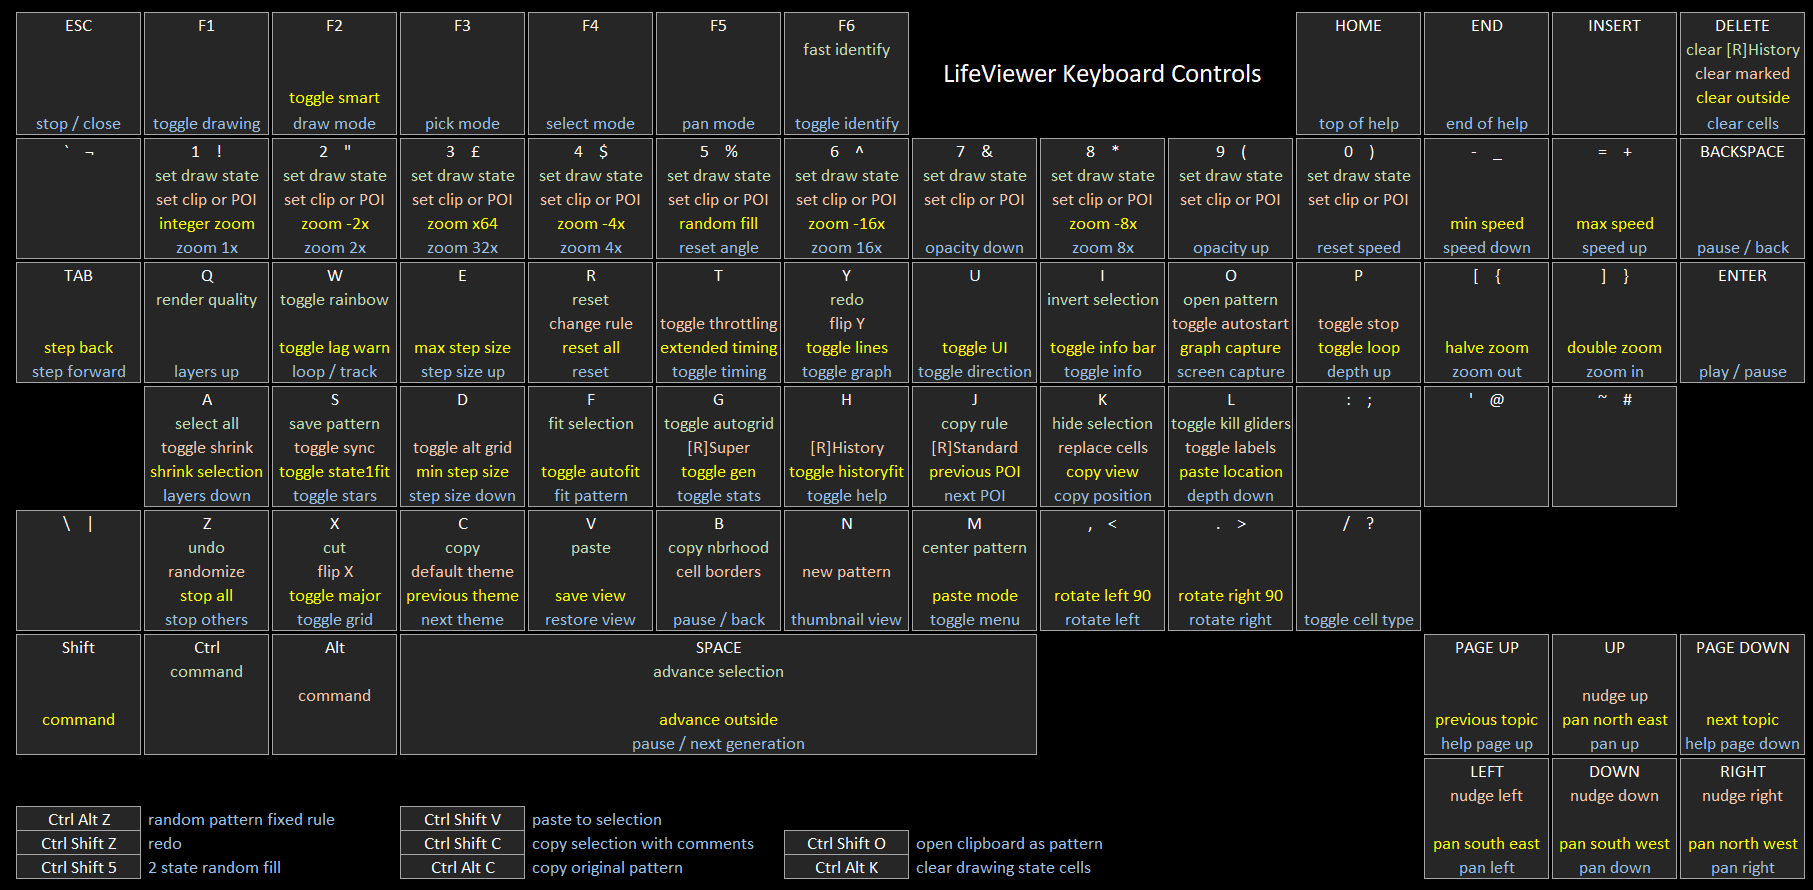
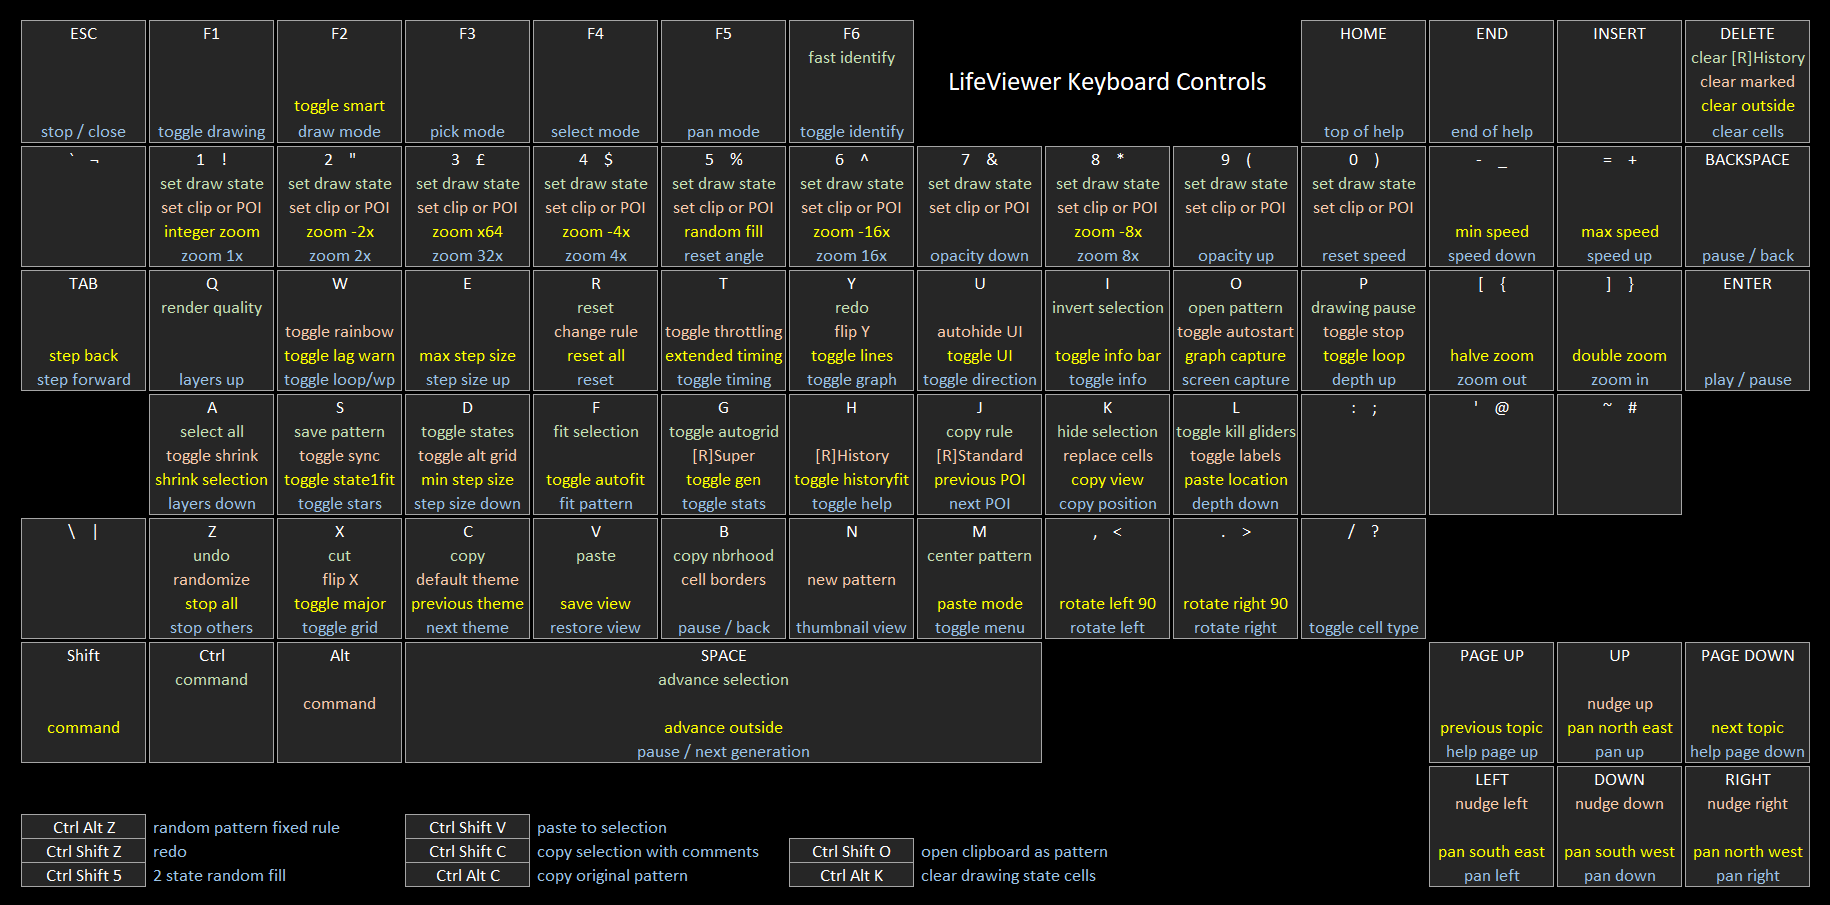
added colours to hotkeys in tooltips and a few new hotkeys

diff --git a/js/keys.js b/js/keys.js
@@ -334,6 +334,12 @@
 						me.menuManager.notification.notify("Throttling " + (me.canBailOut ? "On" : "Off"), 15, 40, 15, true);
 						break;
 
+					// u for autohide UI on playback
+					case 85:
+						me.autoHideButton.current = me.viewAutoHideToggle([!me.hideGUI], true, me);
+						me.menuManager.notification.notify("AutoHide UI " + (me.hideGUI ? "On" : "Off"), 15, 80, 15, true);
+						break;
+
 					// w for toggle rainbow display
 					case 87:
 						// toggle rainbow mode
@@ -532,18 +538,25 @@
 
 			// d for decrease step size
 			case 68:
-				// decrease step size
-				if (!me.stepRange.locked) {
-					if (me.gensPerStep > ViewConstants.minStepSpeed) {
-						// check for shift
-						if (event.shiftKey) {
-							// go to minimum step
-							me.gensPerStep = ViewConstants.minStepSpeed;
-						} else {
-							// decrease step
-							me.gensPerStep -= 1;
+				// check for ctrl
+				if (event.ctrlKey) {
+					// toggle states display
+					me.statesToggle.current = me.toggleStates([!me.showStates], true, me);
+					me.menuManager.notification.notify("States Display " + (me.showStates ? "On" : "Off"), 15, 80, 15, true);
+				} else {
+					// decrease step size
+					if (!me.stepRange.locked) {
+						if (me.gensPerStep > ViewConstants.minStepSpeed) {
+							// check for shift
+							if (event.shiftKey) {
+								// go to minimum step
+								me.gensPerStep = ViewConstants.minStepSpeed;
+							} else {
+								// decrease step
+								me.gensPerStep -= 1;
+							}
+							me.stepRange.current = me.viewStepRange([me.gensPerStep, me.gensPerStep], true, me);
 						}
-						me.stepRange.current = me.viewStepRange([me.gensPerStep, me.gensPerStep], true, me);
 					}
 				}
 				break;
@@ -675,22 +688,29 @@
 
 			// p for increase depth or toggle loop
 			case 80:
-				// check for shift
-				if (event.shiftKey) {
-					if (me.loopGeneration !== -1) {
-						// toggle loop mode
-						me.loopDisabled = !me.loopDisabled;
-						me.loopIndicator.current = [me.loopDisabled];
-						me.menuManager.notification.notify("Loop " + (me.loopDisabled ? "Off" : "On"), 15, 40, 15, true);
-					}
+				// check for ctrl
+				if (event.ctrlKey) {
+					// toggle pause playback while drawing
+					me.pausePlaybackToggle.current = me.togglePausePlayback([!me.pauseWhileDrawing], true, me);
+					me.menuManager.notification.notify("Pause while drawing " + (me.pauseWhileDrawing ? "On" : "Off"), 15, 80, 15, true);
 				} else {
-					// disable depth in multi-state mode
-					if (!me.multiStateView) {
-						if (!me.depthItem.locked) {
-							if (me.depthItem.current[0] <= 0.99) {
-								me.depthItem.current = me.viewDepthRange([me.depthItem.current[0] + 0.01, me.depthItem.current[1]], true, me);
-							} else {
-								me.depthItem.current = me.viewDepthRange([1, me.depthItem.current[1]], true, me);
+					// check for shift
+					if (event.shiftKey) {
+						if (me.loopGeneration !== -1) {
+							// toggle loop mode
+							me.loopDisabled = !me.loopDisabled;
+							me.loopIndicator.current = [me.loopDisabled];
+							me.menuManager.notification.notify("Loop " + (me.loopDisabled ? "Off" : "On"), 15, 40, 15, true);
+						}
+					} else {
+						// disable depth in multi-state mode
+						if (!me.multiStateView) {
+							if (!me.depthItem.locked) {
+								if (me.depthItem.current[0] <= 0.99) {
+									me.depthItem.current = me.viewDepthRange([me.depthItem.current[0] + 0.01, me.depthItem.current[1]], true, me);
+								} else {
+									me.depthItem.current = me.viewDepthRange([1, me.depthItem.current[1]], true, me);
+								}
 							}
 						}
 					}

diff --git a/js/help.js b/js/help.js
@@ -655,6 +655,7 @@
 			y = this.renderHelpLine(view, "Shift D", "minimum step size", ctx, x, y, height, helpLine);
 			y = this.renderHelpLine(view, "Shift E", "maximum step size", ctx, x, y, height, helpLine);
 			y = this.renderHelpLine(view, "0", "reset step and speed", ctx, x, y, height, helpLine);
+			y = this.renderHelpLine(view, "Ctrl P", "toggle pause playback while drawing", ctx, x, y, height, helpLine);
 			y = this.renderHelpLine(view, "Alt T", "toggle throttling", ctx, x, y, height, helpLine);
 			if (view.waypointsDefined) {
 				if (view.loopGeneration !== -1) {
@@ -825,6 +826,7 @@
 		y = this.renderHelpLine(view, "O", "open screenshot in separate window", ctx, x, y, height, helpLine);
 		y = this.renderHelpLine(view, "Shift O", "open population graph in separate window", ctx, x, y, height, helpLine);
 		y = this.renderHelpLine(view, "Shift U", "toggle UI", ctx, x, y, height, helpLine);
+		y = this.renderHelpLine(view, "Alt U", "toggle autohide UI during playback", ctx, x, y, height, helpLine);
 		if (view.engine.multiNumStates === -1) {
 			y = this.renderHelpLine(view, "Alt W", "toggle rainbow mode", ctx, x, y, height, helpLine);
 		}
@@ -875,6 +877,7 @@
 		y = this.renderHelpLine(view, "Shift A", "shrink selection", ctx, x, y, height, helpLine);
 		y = this.renderHelpLine(view, "Alt A", "toggle auto-shrink selection", ctx, x, y, height, helpLine);
 		y = this.renderHelpLine(view, "Ctrl C", "copy", ctx, x, y, height, helpLine);
+		y = this.renderHelpLine(view, "Ctrl D", "toggle states display", ctx, x, y, height, helpLine);
 		y = this.renderHelpLine(view, "Ctrl I", "invert selection", ctx, x, y, height, helpLine);
 		y = this.renderHelpLine(view, "Ctrl K", "remove selection", ctx, x, y, height, helpLine);
 		y = this.renderHelpLine(view, "Ctrl V", "paste", ctx, x, y, height, helpLine);

diff --git a/js/lifeview.js b/js/lifeview.js
@@ -303,7 +303,7 @@
 		/** @const {string} */ versionName : "LifeViewer",
 
 		// build version
-		/** @const {number} */ versionBuild : 594,
+		/** @const {number} */ versionBuild : 595,
 
 		// author
 		/** @const {string} */ versionAuthor : "Chris Rowett",
@@ -13574,7 +13574,7 @@
 
 		// autohide toggle button
 		this.autoHideButton = this.viewMenu.addListItem(this.viewAutoHideToggle, Menu.middle, 0, 50, 180, 40, ["AutoHide UI"], [this.hideGUI], Menu.multi);
-		this.autoHideButton.toolTip = ["toggle hide UI on playback"]; 
+		this.autoHideButton.toolTip = ["toggle hide UI on playback [Alt U]"]; 
 
 		// rule button
 		this.ruleButton = this.viewMenu.addButtonItem(this.rulePressed, Menu.middle, -100, -75, 180, 40, "Change Rule");
@@ -13670,12 +13670,12 @@
 		// states toggle
 		this.statesToggle = this.viewMenu.addListItem(this.toggleStates, Menu.northWest, 45, 45, 40, 40, [""], [this.showStates], Menu.multi);
 		this.statesToggle.icon = [this.iconManager.icon("states")];
-		this.statesToggle.toolTip = ["toggle states display"];
+		this.statesToggle.toolTip = ["toggle states display [Ctrl D]"];
 
 		// pause playback while drawing toggle
 		this.pausePlaybackToggle = this.viewMenu.addListItem(this.togglePausePlayback, Menu.northWest, 90, 45, 40, 40, [""], [this.pauseWhileDrawing], Menu.multi);
 		this.pausePlaybackToggle.icon = [this.iconManager.icon("drawpause")];
-		this.pausePlaybackToggle.toolTip = ["toggle pause playback while drawing"];
+		this.pausePlaybackToggle.toolTip = ["toggle pause playback while drawing [Ctrl P]"];
 
 		// smart drawing toggle
 		this.smartToggle = this.viewMenu.addListItem(this.toggleSmart, Menu.northWest, 135, 45, 40, 40, [""], [this.smartDrawing], Menu.multi);

diff --git a/js/canvasmenu.js b/js/canvasmenu.js
@@ -2551,6 +2551,7 @@
 			targetWidth = 0,
 			currentChar = "",
 			i = 0, j = 0,
+			textPart = "",
 
 			// height for tooltip box
 			height = 0,
@@ -2777,9 +2778,41 @@
 					oc.fillText(extraTip, x + 2, y + fontSize + borderSize + 2);
 				}
 				oc.fillStyle = this.fgCol;
-				oc.fillText(toolTip, x, y);
+
+				// check for hotkey
+				i = toolTip.indexOf("[");
+				j = toolTip.lastIndexOf("]");
+				if (i !== -1 && j !== -1) {
+					textPart = toolTip.substr(0, i + 1);
+					width = oc.measureText(textPart).width;
+					oc.fillText(textPart, x, y);
+					oc.fillStyle = "#80FFFF";
+					textPart = toolTip.substr(i + 1, j - i - 1);
+					oc.fillText(textPart, x + width, y);
+					oc.fillStyle = this.fgCol;
+					textPart = toolTip.substr(j);
+					width = oc.measureText(toolTip.substr(0, j)).width;
+					oc.fillText(textPart, x + width, y);
+				} else {
+					oc.fillText(toolTip, x, y);
+				}
 				if (extraTip !== "") {
-					oc.fillText(extraTip, x, y + fontSize + borderSize);
+					i = extraTip.indexOf("[");
+					j = extraTip.lastIndexOf("]");
+					if (i !== -1 && j !== -1) {
+						textPart = extraTip.substr(0, i + 1);
+						width = oc.measureText(textPart).width;
+						oc.fillText(textPart, x, y + fontSize + borderSize);
+						oc.fillStyle = "#80FFFF";
+						textPart = extraTip.substr(i + 1, j - i - 1);
+						oc.fillText(textPart, x + width, y + fontSize + borderSize);
+						oc.fillStyle = this.fgCol;
+						textPart = extraTip.substr(j);
+						width = oc.measureText(extraTip.substr(0, j)).width;
+						oc.fillText(textPart, x + width, y + fontSize + borderSize);
+					} else {
+						oc.fillText(extraTip, x, y + fontSize + borderSize);
+					}
 				}
 			}
 		}
